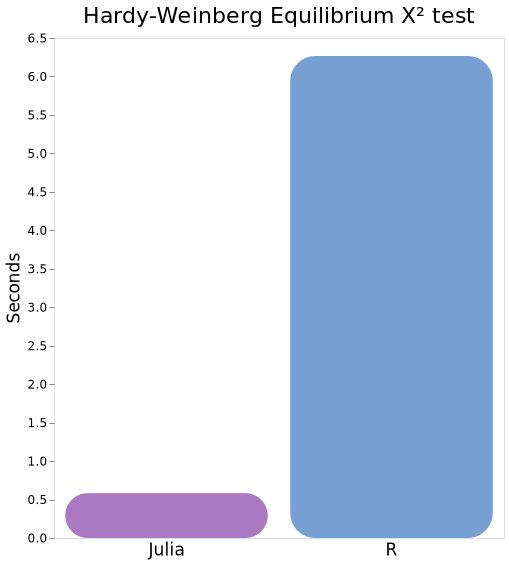
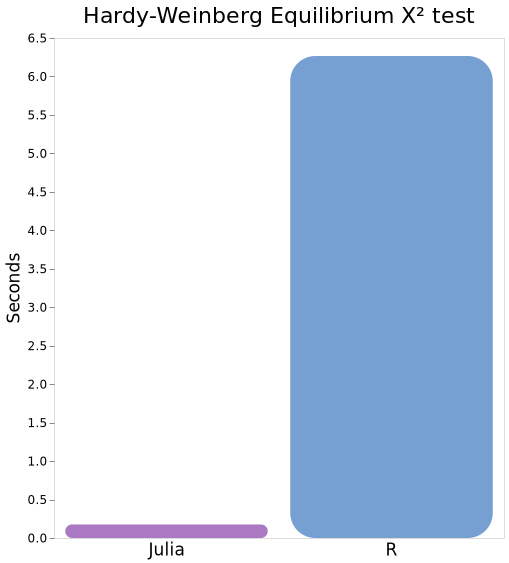
update benchmarks

Changed region(s): [[0.1179, 0.8757, 0.5305, 0.9663]]

diff --git a/docs/getting_started/comparison.md b/docs/getting_started/comparison.md
@@ -52,7 +52,7 @@ As a note, the reported benchmarks are being performed on a 64-bit Manjaro Linux
 
 ### Loading in data
 
-Since `gulfsharks` is shamelessly provided in PopGen.jl, we simply invoke the `gulfsharks()` command in Julia. If you would like to try this yourself in R, find the `gulfsharks.gen` file in the package repository under `/data/data/gulfsharks.gen`. It will print out the input filename several times, which is omitted below for clarity. Since the file importer now uses CSV.jl to read in the file, there are two steps of the genepop parser that are multithreaded. However, the majority of the data parsing (formatting the raw data into a correct PopObj structure) occurs using a single thread. This R benchmark will take a few minutes. Consider making some tea while you wait.
+Since `gulfsharks` is shamelessly provided in PopGen.jl, we will just load it with `genepop()`.  If you would like to try this yourself in R, find the `gulfsharks.gen` file in the package repository under `/data/source/gulfsharks.gen`. Since the file importer now uses CSV.jl to read files, there is one step of the genepop parser that is multithreaded. However, the majority of the data parsing (formatting the raw data into a correct PopData structure) occurs using a single thread. This R benchmark will take a few minutes. Consider making some tea while you wait.
 
 <Tabs
   defaultValue="j"
@@ -63,9 +63,19 @@ Since `gulfsharks` is shamelessly provided in PopGen.jl, we simply invoke the `g
 }>
 <TabItem value="j">
 
-```julia
-julia> @btime x = gulfsharks() ; # hide the output
-  1.445 s (9342559 allocations: 386.67 MiB)
+```
+@benchmark sharks = genepop("data/source/gulfsharks.gen", silent = true)
+BenchmarkTools.Trial: 
+  memory estimate:  330.58 MiB
+  allocs estimate:  6905285
+  --------------
+  minimum time:     806.202 ms (5.91% GC)
+  median time:      884.887 ms (5.61% GC)
+  mean time:        910.722 ms (5.41% GC)
+  maximum time:     1.071 s (4.82% GC)
+  --------------
+  samples:          6
+  evals/sample:     1
 ```
 
 </TabItem>
@@ -86,15 +96,15 @@ microbenchmark)
 
 ![import plot](/img/speedplot.png)
 
-Comparing averages, PopGen.jl clocks in at `1.445s` versus adegenet's `6.745s` , so ~6.4x faster.
+Comparing averages, PopGen.jl clocks in at `910ms` versus adegenet's `6.745s` , so ~7.4x faster.
 
 
 
 ### `PopData` vs `genind` size
 
-It was pretty tricky to come up with a sensible/efficient/convenient data structure for PopGen.jl, and the original attempt was a Julian variant to a `genind`, which itself is something known as an `S4 class object`. While the two-IndexedTables design might not seem like it took a lot of effort, we ultimately decided that the column-major style and available tools, combined with careful genotype Typing was a decent "middle-ground" of ease-of-use vs performance. Plus, we are suckers for consistent syntax, which `genind`'s don't have compared to standard R syntax (looking at you too, Tidyverse/ggplot!). 
+It was pretty tricky to come up with a sensible/efficient/convenient data structure for PopGen.jl, and the original attempt was a Julian variant to a `genind`, which itself is something known as an `S4 class object`. While the two-DataFrames design might not seem like it took a lot of effort, we ultimately decided that the column-major style and available tools, combined with careful genotype Typing was a decent "middle-ground" of ease-of-use vs performance. Plus, we are suckers for consistent syntax, which `genind`'s don't have compared to standard R syntax (looking at you too, Tidyverse/ggplot!). 
 
-*Anyway*, it's important to understand how much space your data will take up in memory (your RAM) when you load it in, especially since data's only getting bigger! Keep in mind that `gulfsharks()` in PopGen.jl also provides lat/long data, which _should_ inflate the size of the object somewhat compared to the `genind`, which we won't add any location data to.
+*Anyway*, it's important to understand how much space your data will take up in memory (your RAM) when you load it in, especially since data's only getting bigger! Keep in mind that `gulfsharks` in PopGen.jl also provides lat/long data, which _should_ inflate the size of the object somewhat compared to the `genind`, which we won't add any location data to.
 
 <Tabs
   defaultValue="j"
@@ -106,8 +116,8 @@ It was pretty tricky to come up with a sensible/efficient/convenient data struct
 <TabItem value="j">
 
 ```julia
-julia> Base.summarysize(x)
- 3498172
+julia> Base.summarysize(sharks)
+3527765
 #bytes
 ```
 
@@ -141,8 +151,18 @@ This is a classic population genetics test and a relatively simple one. The R be
 <TabItem value="j">
 
 ```julia
-julia> @btime hwe_test(x) ;
-  591.396 ms (962353 allocations: 39.88 MiB)
+julia> @benchmark hwe_test(sharks)
+BenchmarkTools.Trial: 
+  memory estimate:  46.22 MiB
+  allocs estimate:  1050525
+  --------------
+  minimum time:     145.476 ms (0.00% GC)
+  median time:      179.146 ms (4.35% GC)
+  mean time:        176.142 ms (3.56% GC)
+  maximum time:     204.813 ms (0.00% GC)
+  --------------
+  samples:          29
+  evals/sample:     1
 ```
 
 </TabItem>
@@ -160,4 +180,4 @@ Unit: seconds
 
 ![chi squared plot](/img/chisqplot.png)
 
-Comparing averages, PopGen.jl clocks in at ~`591ms` versus adegenet's `6.3s`, so ~10.5x faster. 
+Comparing averages, PopGen.jl clocks in at ~`176ms` versus adegenet's `6.3s`, so ~**35.8x** faster(!) 
